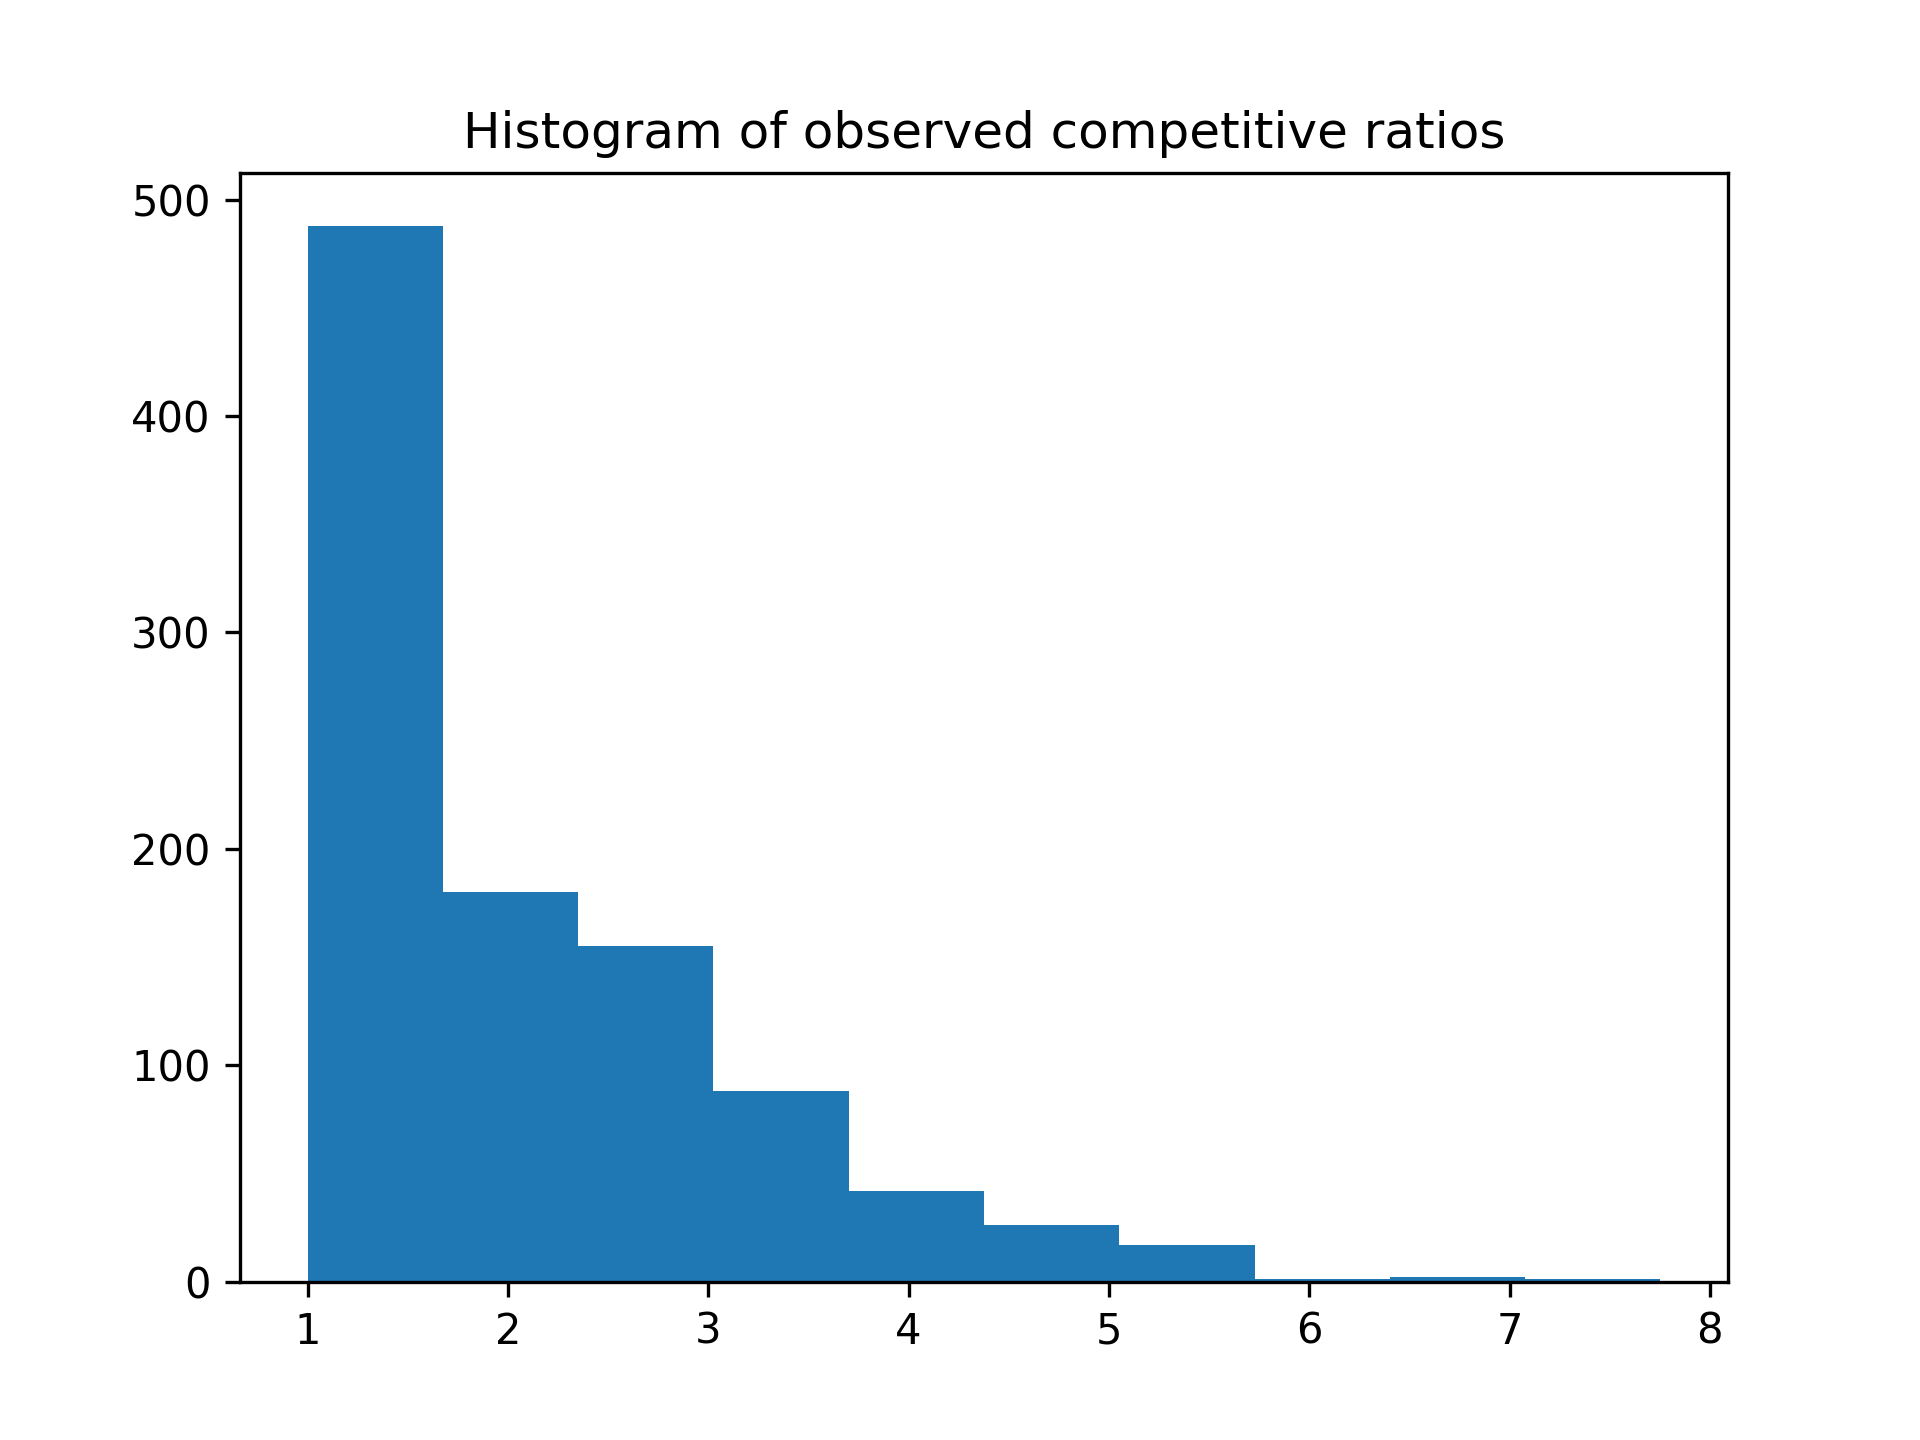
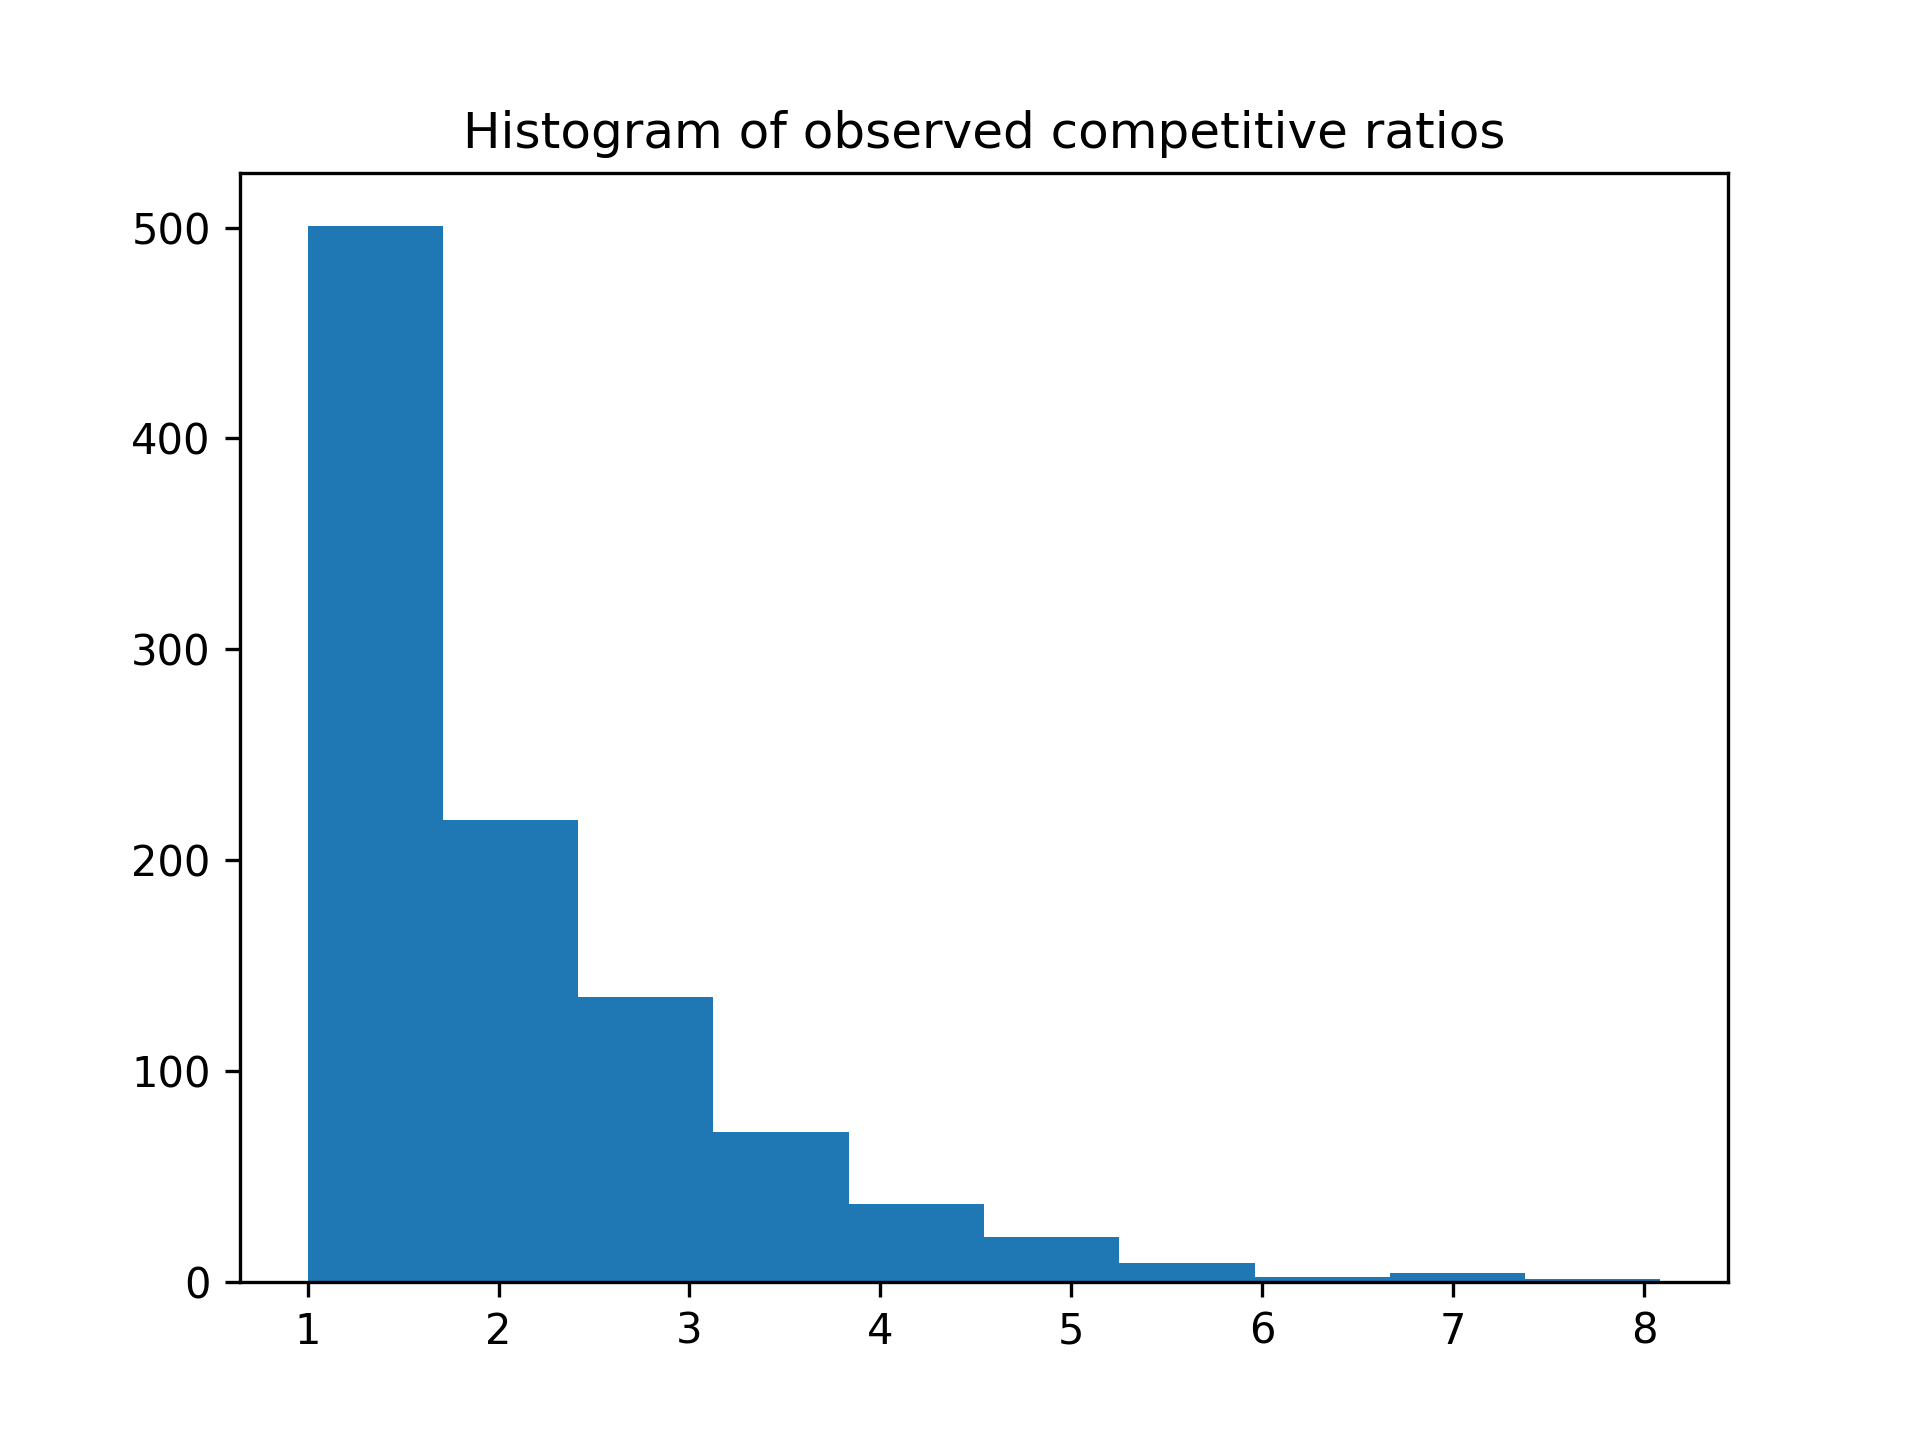
Added online algorithm qThreshold and modified some existing functions

diff --git a/algorithms/online.py b/algorithms/online.py
@@ -1,14 +1,39 @@
 class OnlineAlgorithms:
     # some parent class that handles functionality that all online algorthim share
 
-    def __init__(self, n, m):
-        self.n = n
-        self.m = m
+    def __init__(self):
         self.buffer = []
+        self.algorithm = None 
+
+    def instantiate_instance(self, n, m):
+        self.n = n
+        self.cur_n = n
+        self.m = m
 
     # for some algorithms the historic data might be useful
     def append_buffer(self, instance_data):
         self.buffer.append(instance_data)
+
+    # basocally every online algorithm uses this procedure, hence it's in the parent class
+    def solve_instance(self, I):
+        C = 0 # total cost
+        n = I[0]
+        m = I[1]
+        
+        for day in range(m):
+            if self.cur_n <= 0: # early exit
+                return C 
+            # get the decision (f, l) from the algorithm
+            f, l = self.algorithm(self.n, day, I[2][day], I[3][day], I[4][day])
+
+            # update relevant variables
+            self.cur_n -= f
+            C += f * I[3][day] + l * I[4][day]
+        
+        if self.cur_n > 0:
+            C += self.cur_n * I[3][-1]
+
+        return C
 
 class HastyOnline(OnlineAlgorithms):
     # example of a specific implementation of an online algorithm
@@ -16,11 +41,10 @@ class HastyOnline(OnlineAlgorithms):
     def __init__(self, n, m):
         super().__init__(n, m)
         self.cur_n = n
-
         self.algorithm = self.create_algorithm()
 
     # this function instantiates the online algorithm.
-    def create_algorithm(self):
+    def create_algorithm(self, n, m):
 
         # inside of the function 'create_algorithm' we create the actual function that will handle
         # the online input 
@@ -33,21 +57,37 @@ class HastyOnline(OnlineAlgorithms):
             return decision
         
         return hasty_algorithm
-    
-    def solve_instance(self, I):
-        C = 0 # total cost
-        n = I[0]
-        m = I[1]
-        
-        for day in range(m):
-            # get the decision (f, l) from the algorithm
-            f, l = self.algorithm(self.cur_n, day, I[2][day], I[3][day], I[4][day])
 
-            # update relevant variables
-            self.cur_n -= f
-            C += f * I[3][day] + l * I[4][day]
+class qThresholdOnline(OnlineAlgorithms):
+    # example of a specific implementation of an online algorithm
+    # we send everyone home when p[i] < q * p_max
+    # ASSUMPTIONS FOR THEORETICAL RESULTS:
+    #   - s[i] = n
+    #   - 1 <= p[i] <= p_max
+    #   - h[i] = 0
+    #   - online algorithm knows the range of p[i] (important!)
+    
+    def __init__(self, q, p_max):
+        super().__init__()
+        self.threshold = q * p_max
+        self.algorithm = self.create_algorithm()
+
+    # this function instantiates the online algorithm.
+    def create_algorithm(self):
+
+        #self.instantiate_instance(n, m) # the algorithm may need to know these parameters
+
+        # inside of the function 'create_algorithm' we create the actual function that will handle
+        # the online input 
+        def qthreshold_algorithm(cur_n, cur_m, cur_s, cur_p, cur_h):
+            if cur_p < self.threshold:
+                decision = (cur_s, cur_n - cur_s)
+            else:
+                decision = (0, 0)
+
+            return decision
         
-        return C
+        return qthreshold_algorithm
 
 
 

diff --git a/utility_functions.py b/utility_functions.py
@@ -17,11 +17,11 @@ def generate_test_instances(N=1, n=100, m=10, s=100, p=(10,100), h=(10,100)):
     instances = []
 
     for i in range(N):
-        n_ = n if isinstance(n, int) else random.uniform(n[0], n[1])
-        m_ = m if isinstance(m, int) else random.uniform(m[0], m[1])
-        s_ = [s]*m if isinstance(s, int) else [random.uniform(s[0], s[1]) for _ in range(m)] 
-        p_ = [p]*m if isinstance(p, int) else [random.uniform(p[0], p[1]) for _ in range(m)]
-        h_ = [h]*m if isinstance(h, int) else [random.uniform(h[0], h[1]) for _ in range(m)]
+        n_ = n if isinstance(n, int) else round(random.uniform(n[0], n[1]))
+        m_ = m if isinstance(m, int) else round(random.uniform(m[0], m[1]))
+        s_ = [s]*m_ if isinstance(s, int) else [round(random.uniform(s[0], s[1])) for _ in range(m_)] 
+        p_ = [p]*m_ if isinstance(p, int) else [round(random.uniform(p[0], p[1])) for _ in range(m_)]
+        h_ = [h]*m_ if isinstance(h, int) else [round(random.uniform(h[0], h[1])) for _ in range(m_)]
         instances.append((n_, m_, s_, p_, h_))
         
     return instances
@@ -31,7 +31,7 @@ def test_online(instances, online_algorithm):
     '''
     INPUT:
         instances (list[tuples])    -   a list containing (random) test instances
-        online_algorithm    -   a object that takes as input (n,m) and has a function/object that 
+        online_algorithm    -   an object that takes as input (n,m) and has a function/object that 
                                 that can be called repeatedly in a loop
     OUTPUT:
         data (list[tuples])     -   list containing the relevant data (c-ratios and costs)
@@ -43,11 +43,11 @@ def test_online(instances, online_algorithm):
         n = I[0]
         m = I[1]
 
-        # instantiate the online algorithm for number of people and days
-        A = online_algorithm(n, m)
+        # instantiate the online algorithm for number of people and days (not necessary for all algorithms)
+        online_algorithm.instantiate_instance(n, m) 
 
         # run the online algoritm on the instance (cost is stored in 'data' variable)
-        data_on = A.solve_instance(I)
+        data_on = online_algorithm.solve_instance(I)
         data_off = solve_offline(*I)[1]
 
         data[i] = (data_on / data_off, data_on, data_off)

diff --git a/online_testing_scripts/test_online.py b/online_testing_scripts/test_online.py
@@ -3,13 +3,17 @@ import os
 
 sys.path.insert(1, os.path.dirname(os.path.dirname(__file__))) # needed to access other code
 
-from algorithms.online import HastyOnline
+import numpy as np
+from algorithms.online import qThresholdOnline
 from utility_functions import generate_test_instances, test_online, plot_data
 
-N = 1000
+N = 100
 
-instances = generate_test_instances(N=N, h=(1,5))
+p_min = 1
+p_max = 10
 
-data = test_online(instances, HastyOnline)
+instances = generate_test_instances(N=N, n=1, m=10, s=1, h=0, p=(p_min, p_max))
 
-plot_data(data, '../figures', 'try2')
+data = test_online(instances, qThresholdOnline(0.3, p_max))
+
+plot_data(data, '../figures', 'qThreshold')
